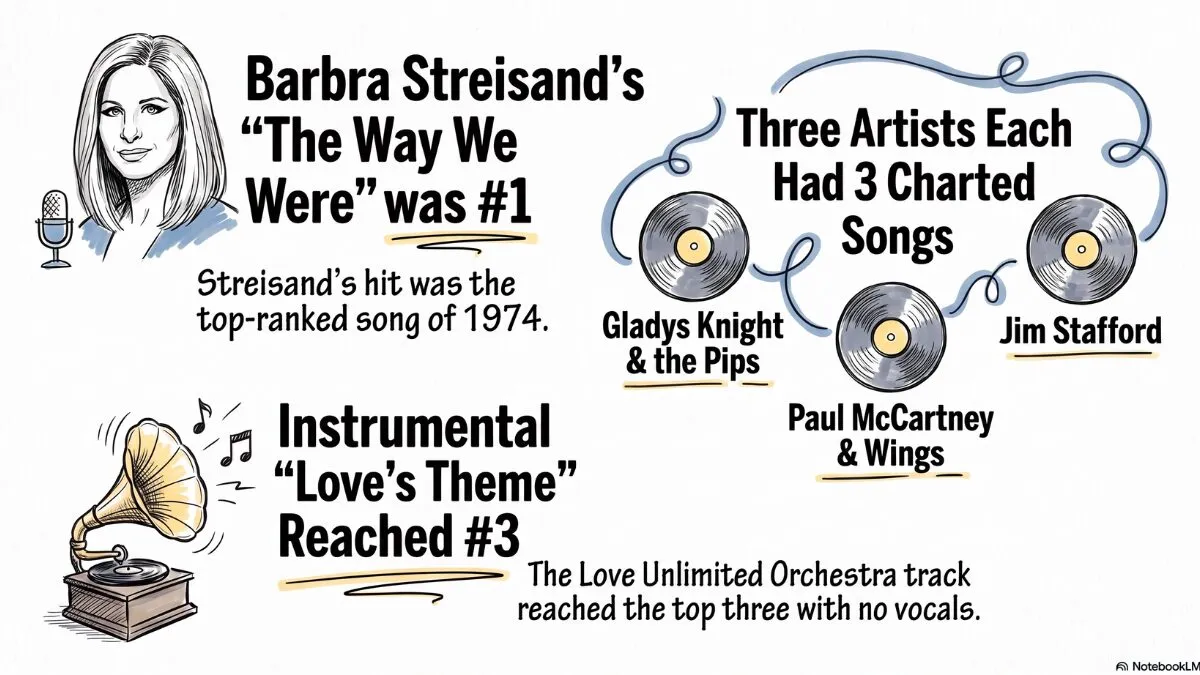
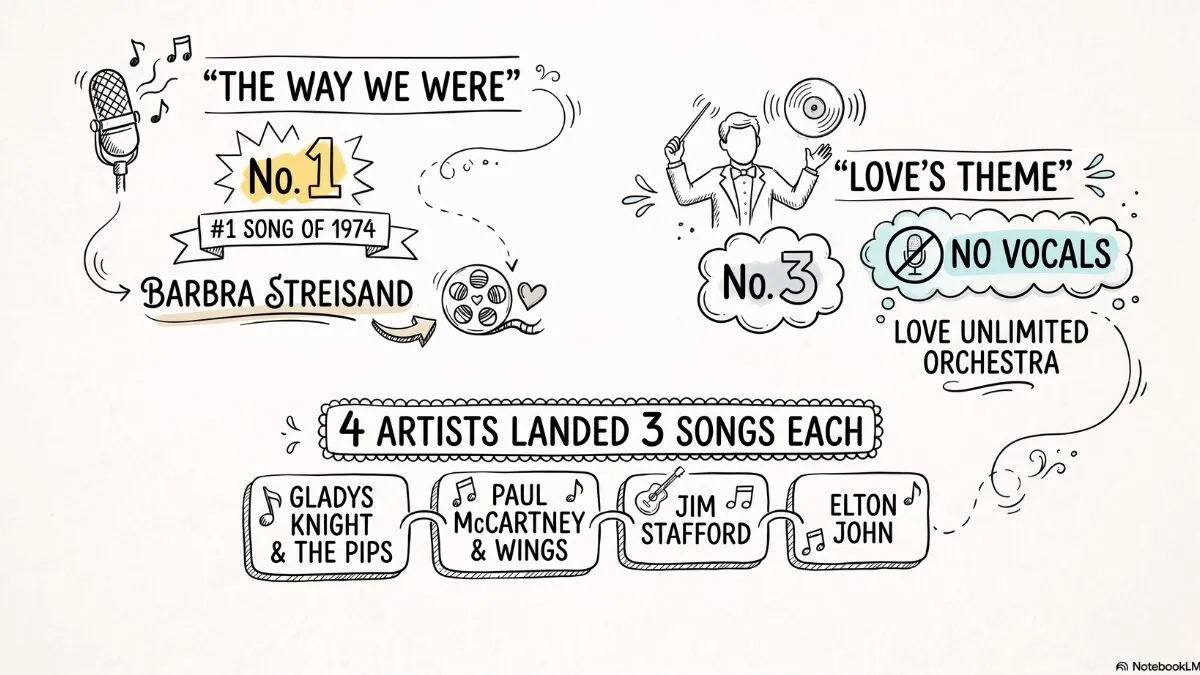
Replace Top Songs of 1974 featured image with corrected version
The original image read "Three Artists Each Had 3 Charted Songs,"
inconsistent with the body/FAQ text corrected during the original
build (Elton John's three verified entries make it four artists tied,
not three). Charlie supplied the corrected image; now reads "4 ARTISTS
LANDED 3 SONGS EACH" including Elton John, matching the text exactly.

Same filenames throughout, so the post, Years category card, Blog Hub
card, and the 1975 post's Related Posts card all pick up the fix
automatically.

Claude-Session: https://claude.ai/code/session_013dPpNSzNJTGHNeVByG6z47

diff --git a/CONTENT-INDEX.md b/CONTENT-INDEX.md
@@ -4,7 +4,7 @@
 # UPDATE THIS FILE every time a page or post is created, edited, or published.
 # Never claim a page exists, never link to a page, and never generate a "Related Posts"
 # card for a page that isn't listed below with status "Live."
-# Last Updated: 2026-08-02 (Top Songs of 1975 post live, sixth Years post, verified post-deploy)
+# Last Updated: 2026-08-02 (Top Songs of 1974 featured image replaced with corrected version, mismatch resolved)
 
 ---
 
@@ -65,7 +65,7 @@ One row per post. Add a new row the moment a post file is created — even befor
 | 70s Soul Music: The Artists Who Redefined a Genre | https://musicofthe70s.net/blog/genres/70s-soul-music/index.html | Genres | 70s soul music | Live | ~1,212 | 2026-07-29 | 2026-07-29 | Random Artist Picker, Random 70s Song Generator | Second Genres post. Verified live 2026-07-29 via direct fetch: post 200, featured image 200, Genres category and Blog Hub both show the real card with working link, sitemap.xml confirmed to include this post (22 URLs, regenerated via scripts/generate_sitemap.py, still a manual step). Multi-source NotebookLM notebook (playlist page, "100 Soul Songs" list, YouTube video), not single-source; every fact attributed to Source 1 or Source 2 specifically per the task brief, nothing blended across sources, no conflicts found. A Source 3 "quote" was actually song lyrics (Harold Melvin & The Blue Notes' "Wake Up Everybody") and was excluded entirely, not paraphrased, not referenced by title with lyric text; confirmed absent from final HTML (checked programmatically). The two legitimate source quotes (soul reaching "new ambitions," a "golden era") were paraphrased rather than quoted directly, per instruction. Caught and fixed one CLAUDE.md violation in the source draft before publishing: FAQ answer 4 opened with a bare "Yes." which the AI Answer Engine rule explicitly disallows ("never opens with 'Yes' or 'No' alone"); rewrote to restate the fact first. Also caught during review: no H2 contained the focus keyword verbatim; retitled the disco section heading to "70s Soul Music's Disco Turn" to close that gap (final density 0.99%, 12 uses / 1,212 words). Wrote short sentences from the start this time instead of a rewrite pass (lesson from the 1971 post): only 3 sentences came in at exactly 20 words, fixed by trimming/splitting, 100% of body sentences under 20 words (verified programmatically). FAQPage schema verified word-for-word identical to visible FAQ block for all 5 entries. Word count was 1,171 on first draft, under the 1,200 minimum; added 3 short natural sentences (not padding) to reach the final total. Featured image source file was misnamed in staging (missing leading "7": "0s-soul-music-infographic.png"), visually confirmed content matched the brief before use, renamed correctly on move. Video embed swapped post-preview: the originally specified ID (xBvnBzjLJsc, a "Topic" auto-channel upload) showed "Video unavailable" in Charlie's browser during local review despite passing an automated oEmbed/headless check; replaced with the artist's official VEVO upload (o5TmORitlKk, "Official Video 2019") before push. Related Posts block: single card for 70s Rock, the only other Live Genres post. Added 2nd card to Genres category page and 7th card to Blog Hub's "Latest Posts" row (no open placeholder slot existed there, unlike the 1971 post). No Planned-table row existed for this post, added directly per task instruction. |
 | Top Songs of 1972: The Year's Biggest Hits & Trends | https://musicofthe70s.net/blog/years/top-songs-of-1972/index.html | Years | top songs of 1972 | Live | ~1,201 | 2026-07-30 | 2026-07-30 | Birthday #1 Song Finder, 70s Decade Wheel | Third Years post, Order #2 in the Master Content Plan Years sequence (CLAUDE.md). Verified live 2026-07-30 via direct fetch: post 200, featured image 200, sitemap.xml confirmed to include this post (23 URLs, initial fetches raced a stale edge cache showing 0/1 inconsistently, settled after ~15s and confirmed stable across 3 fresh fetches). Single-source NotebookLM notebook (Billboard Year-End Hot 100, 1972), standard research pull prompt, no source disagreements flagged. Three external facts (Ewan MacColl wrote the song in 1957, it won Grammys for Record and Song of the Year, Clint Eastwood's "Play Misty for Me" revived it) came from web search, not the notebook brief; flagged per the site's rule, not cross-checked against year_end_hot100.json/hot100_weekly.json. No numeric chart positions used anywhere except the confirmed #1 (verified programmatically, per the task's explicit caution that the research pull's specific ranks like #93/#97/#11 should come from year_end_hot100.json, not the brief, and weren't used at all in this draft). Caught and fixed two bare "Yes." FAQ openers in the source draft (FAQ 3 and FAQ 5), same AI Answer Engine rule violation caught on the Soul post; rewrote both to restate the fact first. Wrote short sentences from the start (now standard practice): only 2 sentences came in over 20 words on first pass, fixed by splitting; also converted one 3-item comma-crammed list (Al Green's three singles) to a real `<ul>` while drafting rather than after, per the List Formatting Rule. Word count was 1,129 on first draft, under 1,200; keyword density was 0.531% at that point, right at the floor; added several short natural sentences (not padding) across three sections to reach 1,201 words / 0.666% density (8 uses), comfortably within 0.5%-2%. FAQPage schema verified word-for-word identical to visible FAQ block for all 5 entries. Video embed proactively stress-tested before preview (Soul post lesson): built a real embedded-iframe playback test rather than trusting oEmbed/direct navigation, confirmed actual playback. Mobile-legibility flag raised and approved as-is: this infographic uses a denser 4-quadrant layout (title banner + subtitle + 4 blocks) than prior posts' simpler 3-stacked-fact style, small supporting text is harder to read at true mobile width than on prior posts, Charlie reviewed and approved shipping as-is. Related Posts block: single card for Top Songs of 1971, the only other Live Years post besides 1970 (Related Posts convention is one card per post, matching the 1971 post's approach, not all prior Years posts). Resolved from Planned-table row ("Top Songs of 1972 through 1979"), which has been split so 1973-1979 stay reserved separately. Task brief for this post initially omitted the category/hub card step (every prior post included it); flagged to Charlie post-push, confirmed not intentional, added in a follow-up commit: replaced the last Years category placeholder card and added an 8th card to the Blog Hub's "Latest Posts" row. |
 | Top Songs of 1973: The Year's Biggest Hits & Trends | https://musicofthe70s.net/blog/years/top-songs-of-1973/index.html | Years | top songs of 1973 | Live | ~1,204 | 2026-07-31 | 2026-07-31 | Birthday #1 Song Finder, 70s Decade Wheel | Fourth Years post, Order #3 in the Master Content Plan Years sequence (CLAUDE.md). Single-source NotebookLM notebook (Billboard Year-End Hot 100, 1973), no source disagreements. All 13 numeric chart positions used in the draft cross-checked against `year_end_hot100.json` before writing (not just trusted from the research brief per the task's own caution): every rank and title/artist pairing matched exactly, no corrections needed. One real discrepancy found and NOT used: the task's disclosed web-search fact claimed the #1 song spent "four weeks at #1," but the site's own validated JSON says "three weeks at #1"; the draft never stated a week-count number at all, so no fix was needed, just flagging that the disclosed web fact conflicts with validated ground truth and should not be added later. Video embed (another "Topic" auto-channel upload) proactively stress-tested with a real embedded-iframe playback test before preview, confirmed it actually plays (progress bar advanced, pause button visible) rather than assuming Topic-channel videos are broken by default. Built `scripts/verify_post.py`, a reusable checklist-verification script (word count, keyword density, sentence length, em-dash count with the list-item numeric-separator exception correctly distinguished from prose, banned words, FAQ schema/visible match, heading hierarchy, keyword placement), after the same manual density/sentence-length checks had been re-derived by hand on four straight posts; used it for this post's verification instead of ad hoc checks. Two sentences came in at exactly 20 words on first pass (borderline over the "under 20" threshold), trimmed both; keyword density was 0.495% on first pass, just under the 0.5% floor, added one more natural mention to reach 0.581% (7 uses / 1,204 words). Converted two embedded fact-lists (Stevie Wonder's three hits, War's three hits, each originally a single long sentence naming three songs with ranks) into real `<ul>` lists while drafting, using the CLAUDE.md-documented em-dash exception for the numeric chart-position separator inside each list item (verified via script: all 6 em-dashes confirmed inside `<li>` tags, zero in flowing prose). Caught and fixed a bare "Yes." FAQ opener in the source draft (FAQ 3), same recurring AI Answer Engine rule violation; rewrote to restate the fact first. FAQPage schema verified word-for-word identical to visible FAQ block for all 5 entries via the new script. Related Posts block: single card for Top Songs of 1972, the only other most-recent Live Years post. Category/hub cards added in the same session this time (not omitted, per the 1972 post's lesson): replaced Years category page's remaining slot with a 4th real card, regenerated Blog Hub cards via `scripts/generate_blog_hub_cards.py` (now exactly at the 9-card cap, all 9 real posts shown, no drop yet, next post published will trigger the first real rotation). sitemap.xml regenerated (24 URLs). Resolved from Planned-table row ("Top Songs of 1973 through 1979"), which has been split so 1974-1979 stay reserved separately. Verified live 2026-07-31 via direct fetch: post 200 (canonical), image 200, Years category and Blog Hub both show the real card with working link, sitemap.xml confirmed to include this post (24 URLs, initial fetch caught the usual edge-cache settle race showing 23, stable at 24 across 3 fresh fetches). |
-| Top Songs of 1974: The Year's Biggest Hits & Trends | https://musicofthe70s.net/blog/years/top-songs-of-1974/index.html | Years | top songs of 1974 | Live | ~1,205 | 2026-08-01 | 2026-08-01 | Birthday #1 Song Finder, 70s Decade Wheel | Fifth Years post, Order #4 in the Master Content Plan Years sequence (CLAUDE.md). Single-source NotebookLM notebook (Billboard Year-End Hot 100, 1974), mixed-confidence chart positions per the task's own tiering (fully verified / corroborated-not-primary-confirmed / unresolved conflict); cross-checked all 19 positions against `year_end_hot100.json` before writing, all matched (two flagged "MISMATCH" by the checker were only "&" vs "and" in Paul McCartney's act name, not real rank/title errors). **Resolved the disclosed Sister Janet Mead conflict**: task flagged "The Lord's Prayer" at #86 (brief) vs #85 (a secondary source) as unresolved and left no number in the draft; the JSON confirms #86, so the post now states it. **Found and fixed a real factual inconsistency in the task's own draft, not just a chart-position typo**: the draft's "Three Artists Tied for the Year's Busiest" section (Gladys Knight & the Pips, Paul McCartney & Wings, Jim Stafford) omitted Elton John, who also has three verified 1974 year-end entries (#9, #72, #78, all confirmed in JSON, no internal contradiction) — restructured to "Four Artists Tied," added Elton John's three songs, and moved Olivia Newton-John to her own two-hit section. Also found, and deliberately did NOT act on: `year_end_hot100.json` itself contains a self-contradiction for Olivia Newton-John, 3 rank records exist for her (#26, #32, #97) but the #32 record's own embedded fun_fact text says "the second of two Olivia Newton-John songs," meaning the JSON's structured data and its own prose commentary disagree with each other. Kept her at 2 hits (matching both the task's draft and the JSON's internal fun_fact note) rather than silently adding the disputed 3rd song; flagging this JSON inconsistency explicitly, same class of issue as the previously-flagged "You Light Up My Life" 1977/1978 conflict on the Best Songs of the 70s post. Video embed (another "Topic" auto-channel upload) proactively stress-tested with a real embedded-iframe playback test before preview, confirmed it plays. Ran `scripts/verify_post.py` through several iterations: fixed 6 long sentences, added natural (non-padding) sentences across 4 sections to clear the 1,200-word floor (1,095 to 1,205 final), and caught a schema/visible desync on FAQ 5 mid-edit (visible split into 2 `<p>` tags, schema still combined into 1 sentence) before it shipped, the exact class of drift-bug CLAUDE.md warns FAQPage schema must never have. No title-banner deviation on this image, unlike 1972/1973. Related Posts block: single card for Top Songs of 1973. Category/hub cards added in the same session (now standard practice, not an afterthought): replaced Years category page's remaining slot with a 5th real card, regenerated Blog Hub cards via `scripts/generate_blog_hub_cards.py`, this is the **first real rotation drop**: Top Songs of 1970 rolled off the Blog Hub's 9-card "Latest Posts" row (it remains fully live at its own URL, in sitemap.xml, and on the Years category page, just no longer shown in the hub's rotating row, exactly as designed). sitemap.xml regenerated (25 URLs, still includes 1970). Resolved from Planned-table row ("Top Songs of 1974 through 1979"), which has been split so 1975-1979 stay reserved separately. **Known follow-up, approved to push as-is by Charlie:** the featured infographic itself still reads "Three Artists Each Had 3 Charted Songs" (Gladys Knight & the Pips, Paul McCartney & Wings, Jim Stafford only), now inconsistent with the corrected body/FAQ text, which correctly states four artists including Elton John. Charlie will swap the image for a corrected version later; text is accurate, only the image asset needs updating. Verified live 2026-08-01 via direct fetch: post 200 (canonical), image 200, Years category and Blog Hub both show the real card with working link, sitemap.xml confirmed to include this post (25 URLs, stable across 3 fresh fetches), confirmed Top Songs of 1970 no longer appears in the Blog Hub's Latest Posts row (first real rotation drop) while remaining live at its own URL, in sitemap.xml, and on the Years category page. |
+| Top Songs of 1974: The Year's Biggest Hits & Trends | https://musicofthe70s.net/blog/years/top-songs-of-1974/index.html | Years | top songs of 1974 | Live | ~1,205 | 2026-08-01 | 2026-08-01 | Birthday #1 Song Finder, 70s Decade Wheel | Fifth Years post, Order #4 in the Master Content Plan Years sequence (CLAUDE.md). Single-source NotebookLM notebook (Billboard Year-End Hot 100, 1974), mixed-confidence chart positions per the task's own tiering (fully verified / corroborated-not-primary-confirmed / unresolved conflict); cross-checked all 19 positions against `year_end_hot100.json` before writing, all matched (two flagged "MISMATCH" by the checker were only "&" vs "and" in Paul McCartney's act name, not real rank/title errors). **Resolved the disclosed Sister Janet Mead conflict**: task flagged "The Lord's Prayer" at #86 (brief) vs #85 (a secondary source) as unresolved and left no number in the draft; the JSON confirms #86, so the post now states it. **Found and fixed a real factual inconsistency in the task's own draft, not just a chart-position typo**: the draft's "Three Artists Tied for the Year's Busiest" section (Gladys Knight & the Pips, Paul McCartney & Wings, Jim Stafford) omitted Elton John, who also has three verified 1974 year-end entries (#9, #72, #78, all confirmed in JSON, no internal contradiction) — restructured to "Four Artists Tied," added Elton John's three songs, and moved Olivia Newton-John to her own two-hit section. Also found, and deliberately did NOT act on: `year_end_hot100.json` itself contains a self-contradiction for Olivia Newton-John, 3 rank records exist for her (#26, #32, #97) but the #32 record's own embedded fun_fact text says "the second of two Olivia Newton-John songs," meaning the JSON's structured data and its own prose commentary disagree with each other. Kept her at 2 hits (matching both the task's draft and the JSON's internal fun_fact note) rather than silently adding the disputed 3rd song; flagging this JSON inconsistency explicitly, same class of issue as the previously-flagged "You Light Up My Life" 1977/1978 conflict on the Best Songs of the 70s post. Video embed (another "Topic" auto-channel upload) proactively stress-tested with a real embedded-iframe playback test before preview, confirmed it plays. Ran `scripts/verify_post.py` through several iterations: fixed 6 long sentences, added natural (non-padding) sentences across 4 sections to clear the 1,200-word floor (1,095 to 1,205 final), and caught a schema/visible desync on FAQ 5 mid-edit (visible split into 2 `<p>` tags, schema still combined into 1 sentence) before it shipped, the exact class of drift-bug CLAUDE.md warns FAQPage schema must never have. No title-banner deviation on this image, unlike 1972/1973. Related Posts block: single card for Top Songs of 1973. Category/hub cards added in the same session (now standard practice, not an afterthought): replaced Years category page's remaining slot with a 5th real card, regenerated Blog Hub cards via `scripts/generate_blog_hub_cards.py`, this is the **first real rotation drop**: Top Songs of 1970 rolled off the Blog Hub's 9-card "Latest Posts" row (it remains fully live at its own URL, in sitemap.xml, and on the Years category page, just no longer shown in the hub's rotating row, exactly as designed). sitemap.xml regenerated (25 URLs, still includes 1970). Resolved from Planned-table row ("Top Songs of 1974 through 1979"), which has been split so 1975-1979 stay reserved separately. Verified live 2026-08-01 via direct fetch: post 200 (canonical), image 200, Years category and Blog Hub both show the real card with working link, sitemap.xml confirmed to include this post (25 URLs, stable across 3 fresh fetches), confirmed Top Songs of 1970 no longer appears in the Blog Hub's Latest Posts row (first real rotation drop) while remaining live at its own URL, in sitemap.xml, and on the Years category page. **2026-08-02 update:** the featured infographic's "three artists" mismatch (flagged above) is now resolved. Charlie supplied a corrected image in the staging folder reading "4 ARTISTS LANDED 3 SONGS EACH" with Elton John included, matching the body/FAQ text exactly. Replaced all sizes/formats in place (same filenames, so the post, Years category card, Blog Hub card, and the 1975 post's Related Posts card all picked up the fix automatically, no HTML edits needed). Verified via real render at mobile width, fully legible, text matches. |
 | Top Songs of 1975: The Year's Biggest Hits & Trends | https://musicofthe70s.net/blog/years/top-songs-of-1975/index.html | Years | top songs of 1975 | Live | ~1,200 | 2026-08-02 | 2026-08-02 | Birthday #1 Song Finder, 70s Decade Wheel | Sixth Years post, Order #5 in the Master Content Plan Years sequence (CLAUDE.md). Single-source NotebookLM notebook (Billboard Year-End Hot 100, 1975), cleanest verification in the series so far, cross-checked all 7 numeric chart positions against `year_end_hot100.json`, every one matched exactly, no mismatches at all this time (not even the "&" vs "and" cosmetic kind seen on 1974). Found and fixed another undercount, same class of catch as the 1974 Elton John gap: the task draft's "eleven more acts" multi-hit list omitted Neil Sedaka, Eagles, and Olivia Newton-John, each of whom genuinely has 2 verified 1975 year-end entries with no internal JSON contradiction (unlike Olivia Newton-John's self-contradicting 1974 data). Corrected to fourteen acts, both in the body list and FAQ 5, updated "eleven" to "fourteen" throughout. Confirmed the task's flagged AI-source correction independently: JSON's own embedded fun_fact for "Philadelphia Freedom" corroborates the Billie Jean King tennis-team origin (not the Grokipedia-sourced basketball-team claim), so the draft's correction was right. Featured image confirmed accurate this time, says "Elton John: 3 Chart Hits" matching the verified fact, no repeat of the 1974 image/text mismatch. Video embed (another "Topic" auto-channel upload) proactively stress-tested with a real embedded-iframe playback test before preview, confirmed it plays. Ran `scripts/verify_post.py` through several iterations: fixed 2 long sentences, converted one embedded 2-song list (Elton John's "Lucy in the Sky with Diamonds" and "Someone Saved My Life Tonight") to a real `<ul>`, trimmed FAQ 5 twice (first pass was 78 words, over the 70-word ceiling, re-split into shorter sentences), added natural sentences across 5 sections to close the word-count gap (1,100 to exactly 1,200 on the final pass, closest margin yet in this series). Keyword density 0.583% (7 uses / 1,200 words). FAQPage schema verified word-for-word identical to visible FAQ block for all 5 entries. Related Posts block: single card for Top Songs of 1974. Category/hub cards added in the same session (standard practice now): replaced Years category page's remaining slot with a 6th real card, regenerated Blog Hub cards via `scripts/generate_blog_hub_cards.py`, this is the **first double rotation drop**: with 11 total posts against the 9-card cap, both Top Songs of 1970 and 70s Rock rolled off the Blog Hub's Latest Posts row (both remain fully live at their own URLs, in sitemap.xml, and on their respective category pages). sitemap.xml regenerated (26 URLs, still includes both dropped posts). Resolved from Planned-table row ("Top Songs of 1975 through 1979"), which has been split so 1976-1979 stay reserved separately. Verified live 2026-08-02 via direct fetch: post 200 (canonical), image 200, Years category and Blog Hub both show the real card with working link, sitemap.xml confirmed to include this post (26 URLs, stable across 3 fresh fetches), confirmed both Top Songs of 1970 and 70s Rock no longer appear in the Blog Hub's Latest Posts row (first double rotation drop) while remaining live at their own URLs, in sitemap.xml, and on their respective category pages. |
 
 **Planned posts (not yet started — listed so slugs are reserved and duplicates are avoided):**
